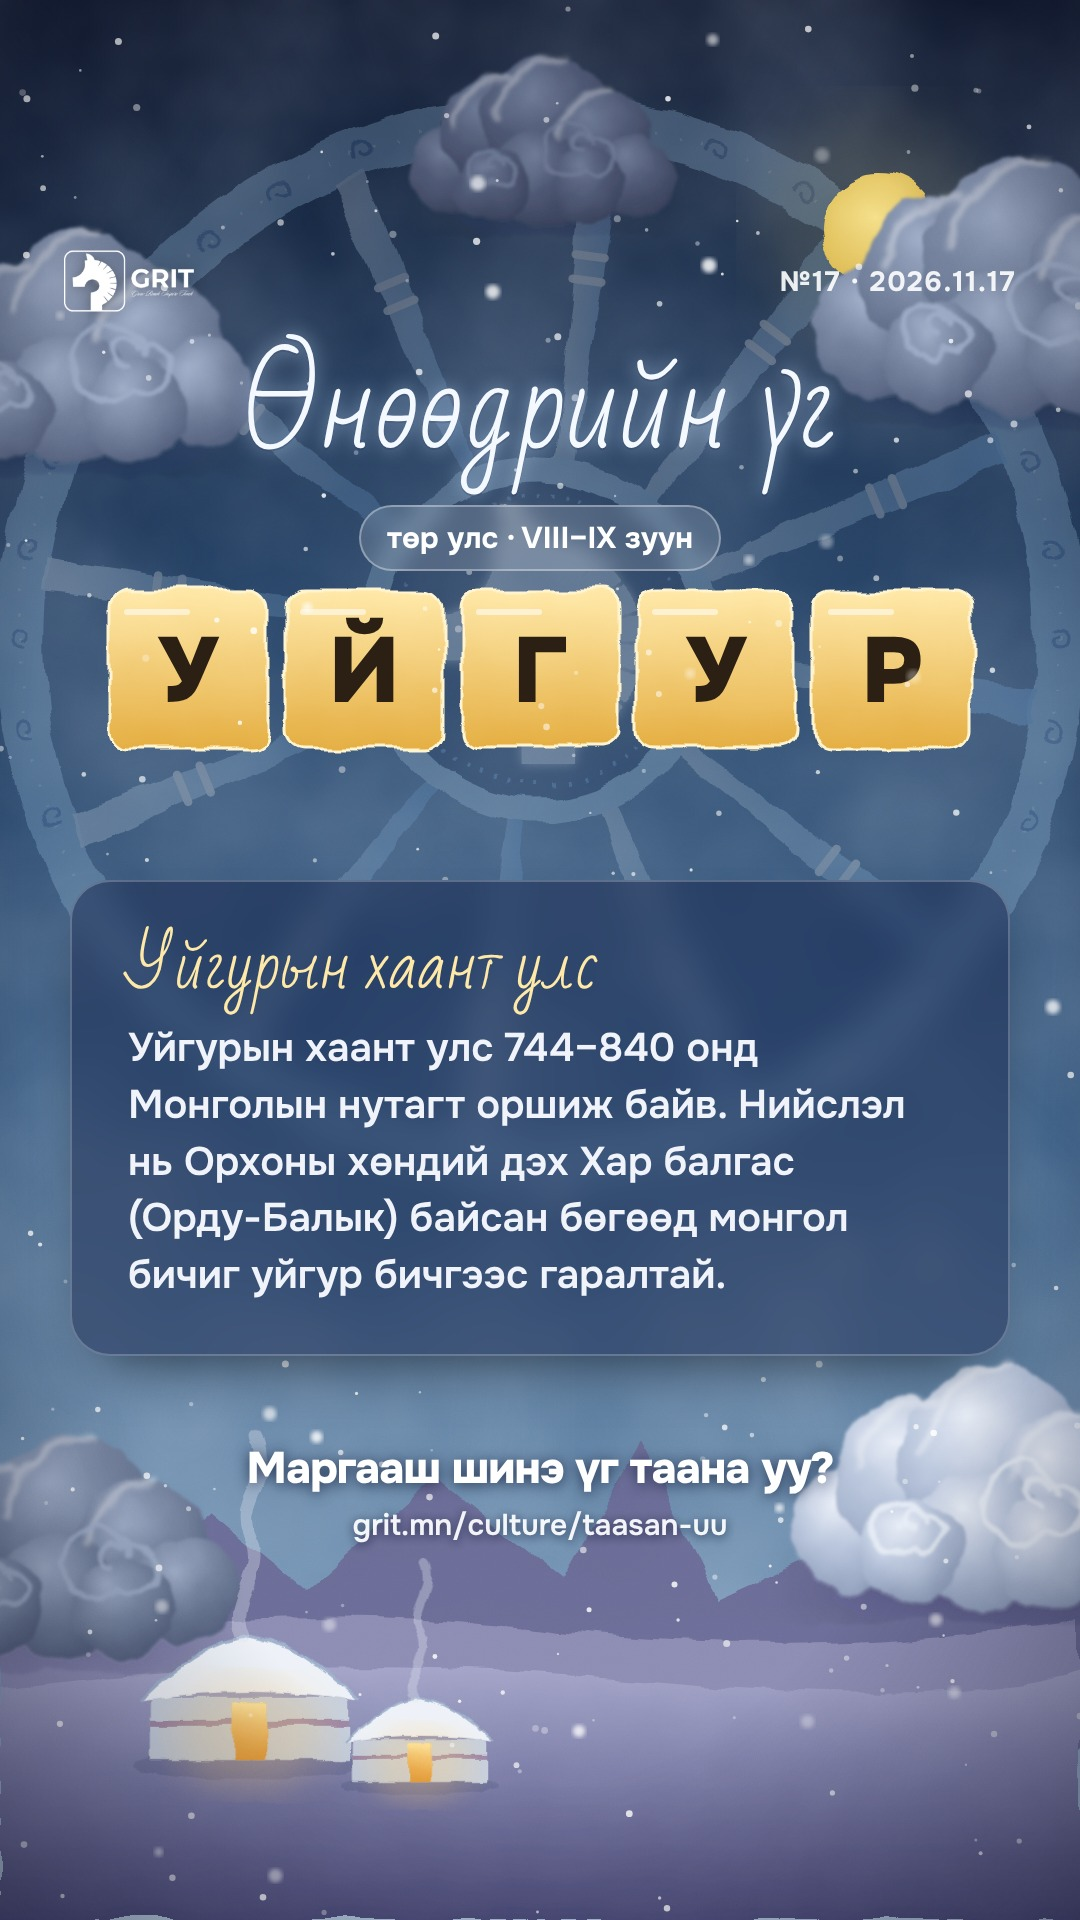
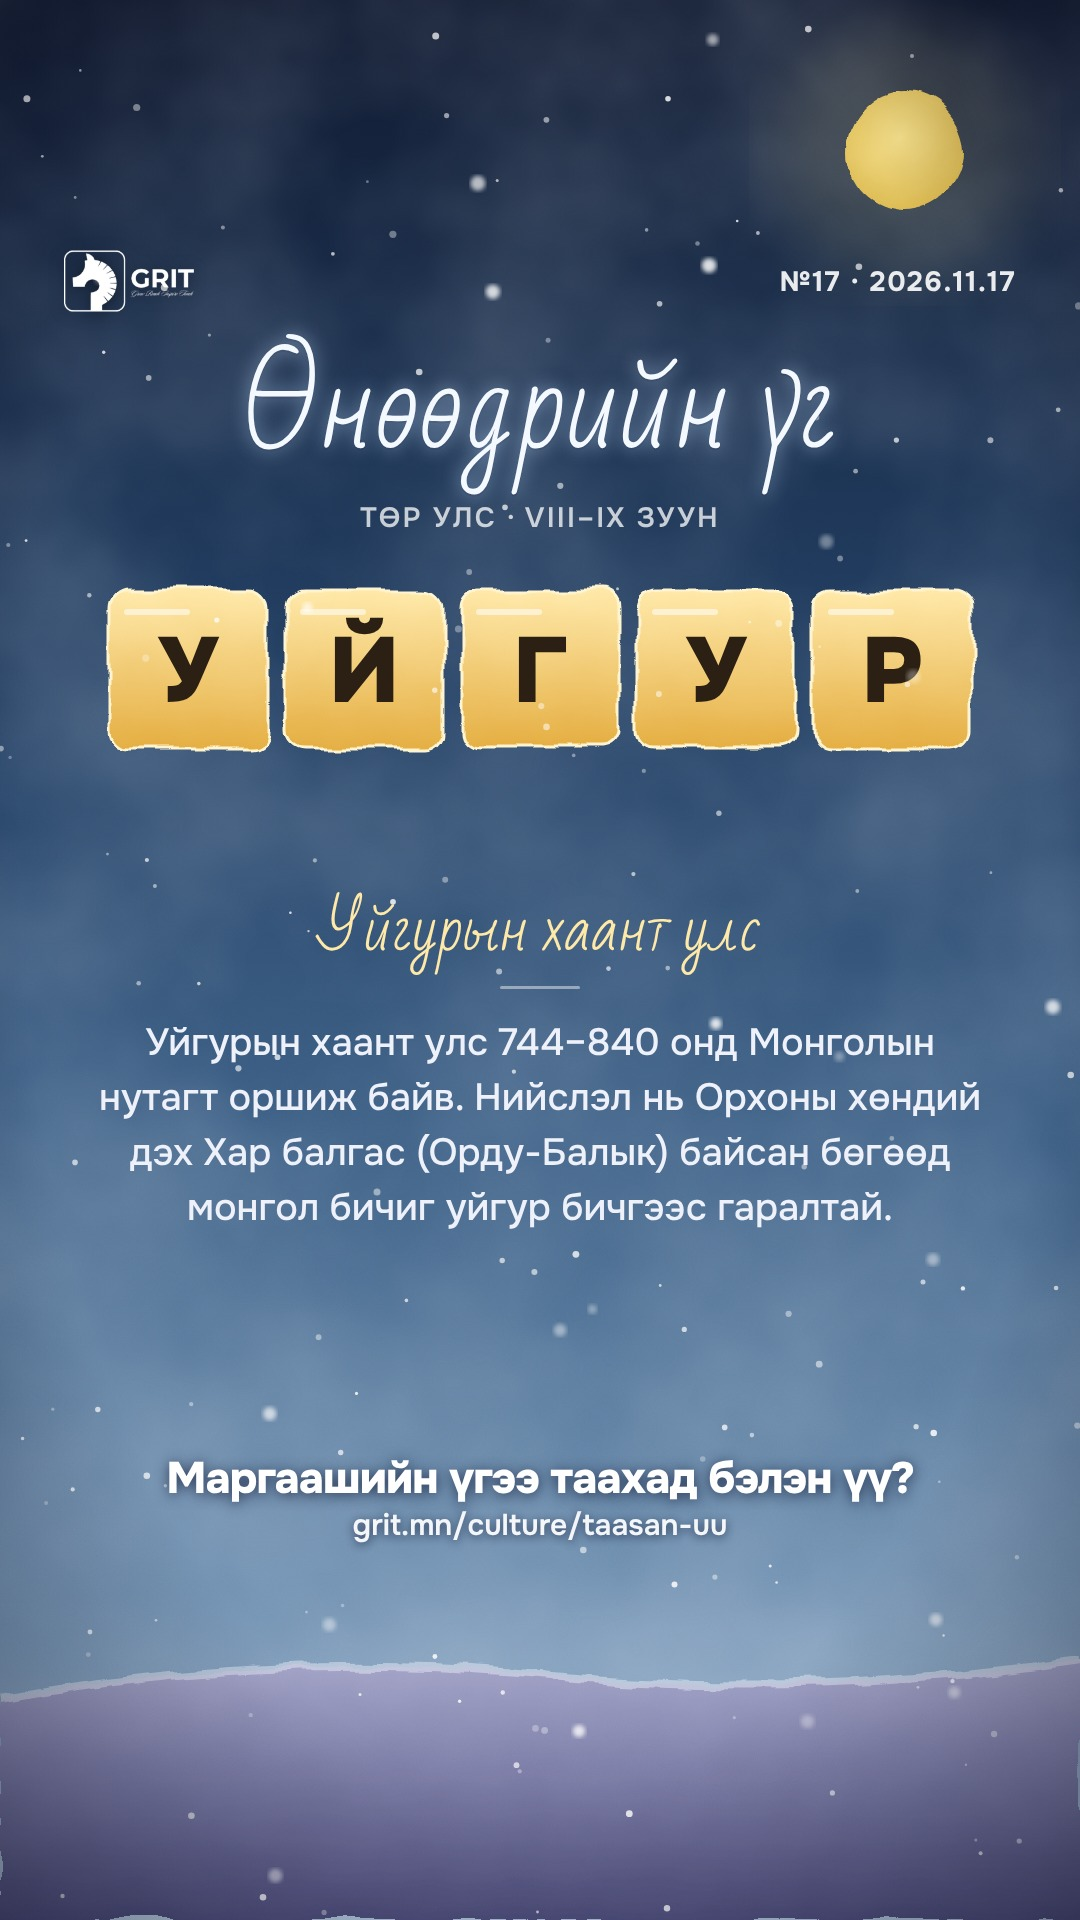
Daily story: simpler design and new call to action
Claude-Session: https://claude.ai/code/session_013mTHg5jK5EjhttnQogVYog

diff --git a/social/daily-story/buildstory.js b/social/daily-story/buildstory.js
@@ -81,7 +81,7 @@ const SK = SKIES[(CFG.no - 1) % SKIES.length];
 seed = 100 + CFG.no;
 const cl3 = [cloud(70, 360, 1.1, 'mid'), cloud(1010, 300, 1.2, 'mid'), cloud(540, 150, .8, 'dk'), cloud(980, 1500, 1.15, 'lt'), cloud(60, 1560, 1.05, 'mid')];
 let snow3 = '';
-for (let i = 0; i < 300; i++) { const x = rnd() * W3, y = rnd() * H3, r = rnd() < .86 ? 1.2 + rnd() * 2.4 : 4 + rnd() * 3.5; snow3 += `<circle cx="${x.toFixed(1)}" cy="${y.toFixed(1)}" r="${r.toFixed(1)}" fill="#ffffff" opacity="${(.3 + rnd() * .55).toFixed(2)}"${r > 4 ? ' filter="url(#blur2)"' : ''}/>`; }
+for (let i = 0; i < 170; i++) { const x = rnd() * W3, y = rnd() * H3, r = rnd() < .86 ? 1.2 + rnd() * 2.4 : 4 + rnd() * 3.5; snow3 += `<circle cx="${x.toFixed(1)}" cy="${y.toFixed(1)}" r="${r.toFixed(1)}" fill="#ffffff" opacity="${(.3 + rnd() * .55).toFixed(2)}"${r > 4 ? ' filter="url(#blur2)"' : ''}/>`; }
 const letters = [...CFG.word];
 const TS = 158, GAP = 18, tw = letters.length * TS + (letters.length - 1) * GAP, tx0 = (W3 - tw) / 2, ty0 = 590;
 const tiles3 = letters.map((ch, i) => {
@@ -105,15 +105,10 @@ const svg3 = `<svg xmlns="http://www.w3.org/2000/svg" width="${W3}" height="${H3
 </defs>
 <rect width="${W3}" height="${H3}" fill="url(#sky3)"/>
 <rect width="${W3}" height="${H3}" filter="url(#wash)" opacity=".5"/>
-<g opacity=".28">${toono(540, 640, 520, 170)}</g>
-<g filter="url(#paint)"><circle cx="880" cy="230" r="58" fill="url(#moon)"/></g>
-<circle cx="880" cy="230" r="120" fill="#f6e08a" opacity=".12" filter="url(#blur30)"/>
-${cl3[2].body}${cl3[0].body}${cl3[1].body}
-<path d="${mt3}" fill="#6a6894" opacity=".9" filter="url(#paint)"/>
-<path d="M0 ${hz3 + 40} Q300 ${hz3} 540 ${hz3 + 30} T1080 ${hz3 + 20} V1920 H0Z" fill="#8c8cb4" filter="url(#paint)"/>
-<path d="M0 ${hz3 + 90} Q320 ${hz3 + 50} 640 ${hz3 + 80} T1080 ${hz3 + 70} V1920 H0Z" fill="url(#groundN3)" filter="url(#paint)"/>
-${cl3[3].body}${cl3[4].body}
-${ger(250, 1760, .62)}${ger(420, 1782, .42)}
+<g filter="url(#paint)"><circle cx="905" cy="150" r="58" fill="url(#moon)"/></g>
+<circle cx="905" cy="150" r="130" fill="#f6e08a" opacity=".12" filter="url(#blur30)"/>
+<path d="M0 1700 Q270 1650 540 1675 T1080 1660 V1920 H0Z" fill="url(#groundN3)" filter="url(#paint)"/>
+<path d="M0 1700 Q270 1650 540 1675 T1080 1660" fill="none" stroke="#e7ebf6" stroke-width="8" opacity=".5" filter="url(#paint)"/>
 ${tiles3}
 ${snow3}
 <rect width="${W3}" height="${H3}" fill="url(#vig3)"/>
@@ -128,17 +123,18 @@ const html3 = `<!doctype html><html lang="mn"><head><meta charset="utf-8">
 .abs{position:absolute}
 .script{font-family:'Bad Script',cursive;color:#f4f8ff;white-space:nowrap;text-shadow:0 0 18px rgba(190,220,255,.65),0 2px 0 rgba(30,40,70,.35)}
 .chip{display:inline-flex;align-items:center;gap:14px;padding:12px 26px;border-radius:999px;background:rgba(255,255,255,.14);border:2px solid rgba(255,255,255,.35);backdrop-filter:blur(10px);font-weight:700;font-size:30px}
-.card{position:absolute;left:70px;right:70px;top:880px;padding:52px 56px 50px;border-radius:40px;background:rgba(20,22,52,.42);border:2px solid rgba(255,255,255,.22);backdrop-filter:blur(18px) saturate(120%);box-shadow:0 30px 60px -30px rgba(0,0,0,.6)}
-.card h3{font-family:'Bad Script',cursive;font-weight:400;font-size:64px;color:#ffe9a8;line-height:1}
-.card p{margin-top:22px;font-size:40px;line-height:1.42;font-weight:600;color:#f1f3fb}
+.card{position:absolute;left:96px;right:96px;top:900px;text-align:center}
+.card h3{font-family:'Bad Script',cursive;font-weight:400;font-size:60px;color:#ffe9a8;line-height:1}
+.card i{display:block;width:80px;height:3px;margin:26px auto 0;background:rgba(255,255,255,.45);border-radius:2px}
+.card p{margin-top:26px;font-size:38px;line-height:1.45;font-weight:500;color:#eef1fa}
 </style></head><body><div id="c">${svg3}
 <img src="${CFG.logo || 'logo.png'}" class="abs" style="left:64px;top:250px;height:62px;filter:drop-shadow(0 2px 8px rgba(0,0,0,.4))">
 <div class="abs" style="right:64px;top:264px;font-weight:700;font-size:28px;letter-spacing:.06em;opacity:.9">№${CFG.no} · ${esc(CFG.date)}</div>
 <div class="abs script" style="left:0;right:0;text-align:center;top:350px;font-size:116px;line-height:1">${esc(CFG.label)}</div>
-<div class="abs" style="left:0;right:0;text-align:center;top:505px"><span class="chip">${esc(CFG.cat)} · ${esc(CFG.era)}</span></div>
+<div class="abs" style="left:0;right:0;text-align:center;top:500px;font-weight:600;font-size:28px;letter-spacing:.08em;opacity:.75">${esc(CFG.cat + ' · ' + CFG.era).toUpperCase()}</div>
 ${'' /* tiles live in the SVG */}
-<div class="card"><h3>${esc(CFG.title)}</h3><p>${esc(CFG.info).replace(/(\S+-\S+)/g, '<span style="white-space:nowrap">$1</span>')}</p></div>
-<div class="abs" style="left:0;right:0;text-align:center;top:1440px;font-weight:800;font-size:44px;letter-spacing:-.02em;text-shadow:0 2px 14px rgba(20,30,60,.8)">${esc(CFG.cta)}</div>
+<div class="card"><h3>${esc(CFG.title)}</h3><i></i><p>${esc(CFG.info).replace(/(\S+-\S+)/g, '<span style="white-space:nowrap">$1</span>')}</p></div>
+<div class="abs" style="left:0;right:0;text-align:center;top:1450px;font-weight:800;font-size:44px;letter-spacing:-.02em;text-shadow:0 2px 14px rgba(20,30,60,.8)">${esc(CFG.cta)}</div>
 <div class="abs" style="left:0;right:0;text-align:center;top:1506px;font-weight:600;font-size:30px;opacity:.92;text-shadow:0 2px 10px rgba(20,30,60,.8)">grit.mn/culture/taasan-uu</div>
 </div></body></html>`;
 fs.writeFileSync(__dirname + `/story-${CFG.no}.html`, html3);

diff --git a/social/daily-story/make-story.js b/social/daily-story/make-story.js
@@ -14,7 +14,7 @@ const [y, mo, d] = day.split('-').map(Number);
 const no = Math.round((Date.UTC(y, mo - 1, d) - EPOCH) / 864e5) + 1;
 const [, word, cat, info, era] = rows[(no - 1) % rows.length];
 const title = word[0] + word.slice(1).toLowerCase();
-const cfg = { no, date: day.replace(/-/g, '.'), label, word, cat, era, title, info, cta: 'Маргааш шинэ үг таана уу?', logo: process.env.LOGO };
+const cfg = { no, date: day.replace(/-/g, '.'), label, word, cat, era, title, info, cta: 'Маргаашийн үгээ таахад бэлэн үү?', logo: process.env.LOGO };
 const cfgPath = path.join(__dirname, `story-${no}.json`);
 fs.writeFileSync(cfgPath, JSON.stringify(cfg, null, 2));
 execFileSync('node', [path.join(__dirname, 'buildstory.js'), cfgPath], { stdio: 'inherit' });
